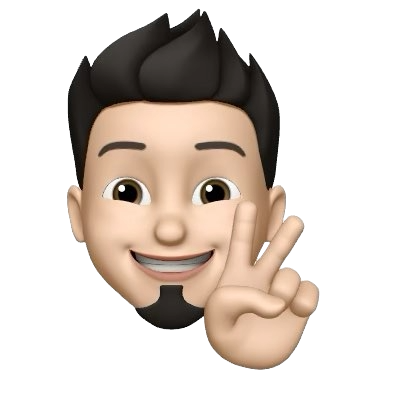
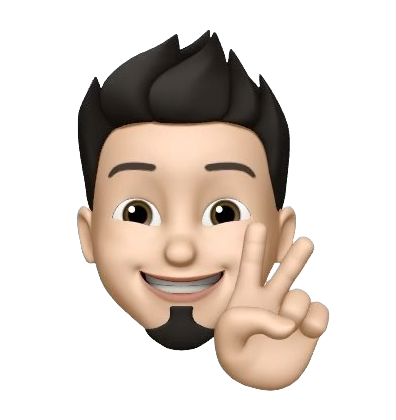
hero image done

Changed region(s): [[0.1515, 0.0, 0.8485, 0.9286], [0.5152, 0.0929, 0.6061, 0.1548], [0.6061, 0.1548, 0.6364, 0.1857]]

diff --git a/public/index.html b/public/index.html
@@ -2,14 +2,14 @@
 <html lang="en">
   <head>
     <meta charset="utf-8" />
-    <link rel="icon" href="%PUBLIC_URL%/HeroImage.jpg" />
+    <link rel="icon" href="https://github.com/sonishstark/Portfolio-website/blob/main/public/memoji.png?raw=true" />
     <meta name="viewport" content="width=device-width, initial-scale=1" />
     <meta name="theme-color" content="#000000" />
     <meta
       name="description"
       content="Web site created using create-react-app"
     />
-    <link rel="apple-touch-icon" href="%PUBLIC_URL%/HeroImage.jpg" />
+    <link rel="apple-touch-icon" href="https://github.com/sonishstark/Portfolio-website/blob/main/public/memoji.png?raw=true" />
     <!--
       manifest.json provides metadata used when your web app is installed on a
       user's mobile device or desktop. See https://developers.google.com/web/fundamentals/web-app-manifest/

diff --git a/src/components/HeroSection/index.js b/src/components/HeroSection/index.js
@@ -15,7 +15,7 @@ import {
   SocialMediaIcon,
   ResumeButton,
 } from "./HeroStyle";
-import HeroImg from "../../images/HeroImage.jpg";
+import HeroImg from "../../images/HeroImage.png";
 import Typewriter from "typewriter-effect";
 import { Bio } from "../../data/constants";
 
